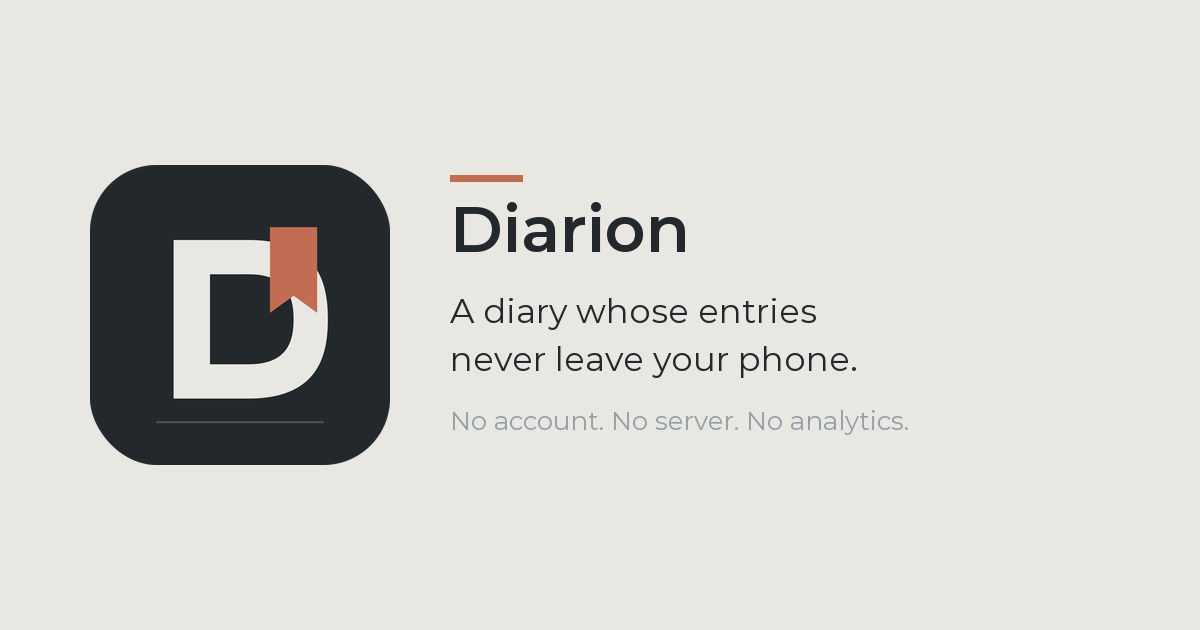
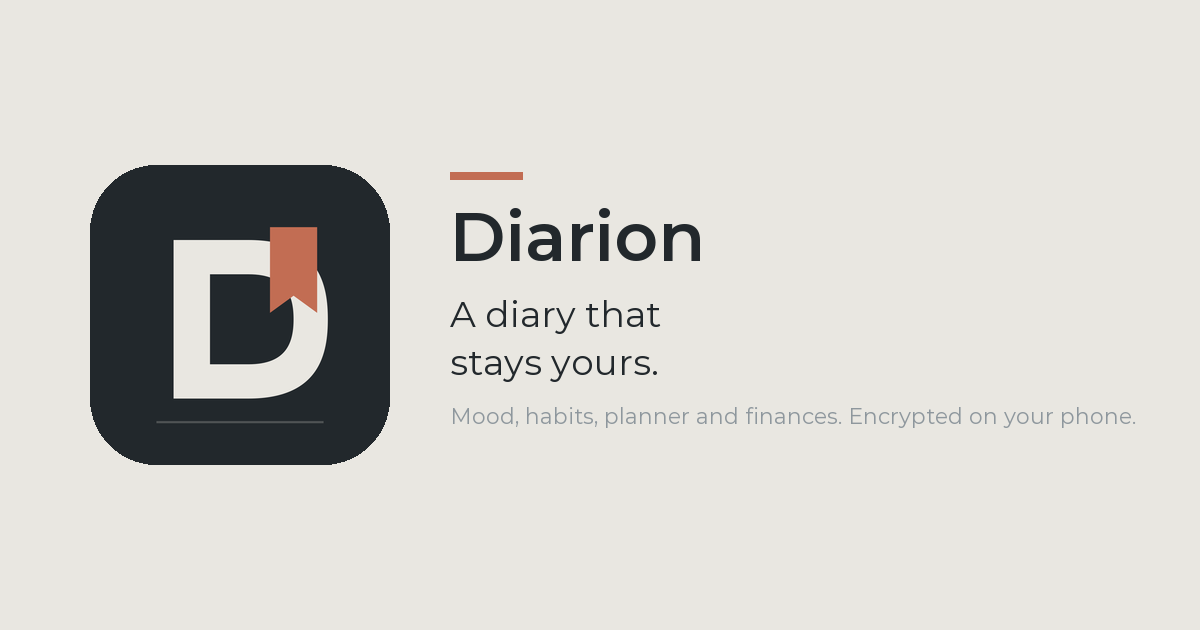
docs(store): «без сервера» знято з сайту, README і лістингу; скріншоти 1.3 обома мовами
Рішення власника 2026-11-13: сервер згодом буде, тому маркетинг більше не обіцяє «без сервера»,
«записи не покидають телефон» і «без хмари». Продаємо щоденник, який «лишається у вас»:
зашифрована база, замок, копія з паролем, експорт. Сайт (uk, en): заголовок, мета, OG-картинки,
герой, три плитки, список приватності, виноска про мережу, футер. README — перший абзац.
store/app-store-listing.md: промо-текст і опис тепер ті, що стоять у App Store Connect для 1.3,
таблиця скріншотів — вісім нових кадрів (емулятор + compose.py), примітка про рішення.
Політика приватності не змінена: вона описує поточну поведінку.

diff --git a/site/index.html b/site/index.html
@@ -3,8 +3,8 @@
 <head>
 <meta charset="utf-8">
 <meta name="viewport" content="width=device-width, initial-scale=1">
-<title>Diarion — щоденник, записи якого не покидають телефон</title>
-<meta name="description" content="Diarion — застосунок для щоденних записів: текст, настрій, звички, планер, нотатки й фінанси. Без акаунта, без сервера, без аналітики. Усе лишається на вашому телефоні.">
+<title>Diarion — приватний щоденник і трекери на кожен день</title>
+<meta name="description" content="Diarion — застосунок для щоденних записів: текст, настрій, звички, планер, нотатки й фінанси. Зашифрована база на вашому телефоні, без аналітики й реклами.">
 <meta name="color-scheme" content="light dark">
 <meta name="theme-color" content="#E9E7E1" media="(prefers-color-scheme: light)">
 <meta name="theme-color" content="#22282C" media="(prefers-color-scheme: dark)">
@@ -18,8 +18,8 @@
 <link rel="stylesheet" href="/styles.css">
 <meta property="og:type" content="website">
 <meta property="og:site_name" content="Diarion">
-<meta property="og:title" content="Diarion — щоденник без хмари">
-<meta property="og:description" content="Записи лишаються у телефоні. Без акаунта, без сервера, без аналітики.">
+<meta property="og:title" content="Diarion — щоденник, який лишається у вас">
+<meta property="og:description" content="Записи, настрій, звички й фінанси в одному застосунку. Зашифровано на вашому телефоні, без аналітики й реклами.">
 <meta property="og:url" content="https://diarion.org/">
 <meta property="og:image" content="https://diarion.org/og.png">
 <meta property="og:image:width" content="1200">
@@ -52,8 +52,8 @@
     <div class="wrap">
       <div>
         <span class="eyebrow">Для iPhone · уже в App Store. Android — пізніше</span>
-        <h1>Щоденник, записи якого не&nbsp;покидають телефон.</h1>
-        <p class="lead">Diarion — застосунок для щоденних записів: текст, настрій, звички, планер, нотатки й фінанси. Без акаунта, без синхронізації, без аналітики: усе, що ви напишете, лежить у базі на самому телефоні.</p>
+        <h1>Щоденник, який лишається у&nbsp;вас.</h1>
+        <p class="lead">Diarion — застосунок для щоденних записів: текст, настрій, звички, планер, нотатки й фінанси. Без реєстрації, без аналітики, без реклами: усе, що ви напишете, лежить у зашифрованій базі на вашому телефоні.</p>
         <div class="cta">
           <a class="store" href="https://apps.apple.com/app/id6814251806"><small>Завантажити в</small>App Store</a>
           <span class="store" aria-disabled="true"><small>Незабаром</small>Google Play</span>
@@ -90,12 +90,12 @@
   <section class="strip" aria-label="Три факти">
     <div class="wrap">
       <div class="tile">
-        <h3>Немає акаунта</h3>
-        <p>Нема чого зламувати й нема куди «відновлювати доступ». Ви просто відкриваєте застосунок і пишете.</p>
+        <h3>Без реєстрації</h3>
+        <p>Відкрили — і пишете. Жодних форм, паролів від сайту і «відновити доступ».</p>
       </div>
       <div class="tile">
-        <h3>Немає сервера</h3>
-        <p>Записи нікуди не надсилаються, бо надсилати їх немає куди. У Diarion немає власних серверів.</p>
+        <h3>Зашифровано</h3>
+        <p>База на телефоні зашифрована. Ключ створюється на вашому пристрої й зберігається в системному сховищі ключів.</p>
       </div>
       <div class="tile">
         <h3>Немає аналітики</h3>
@@ -185,13 +185,13 @@
           </li>
           <li>
             <svg viewBox="0 0 24 24" fill="none" stroke="currentColor" stroke-width="2" stroke-linecap="round" stroke-linejoin="round" aria-hidden="true"><circle cx="12" cy="12" r="10"/><path d="m8 12.5 2.8 2.8L16.5 9.5"/></svg>
-            <div><strong>Немає акаунта, сервера, аналітики, реклами й трекерів.</strong><span>Немає й відстеження між застосунками — відстежувати нічого.</span></div>
+            <div><strong>Немає аналітики, реклами й трекерів.</strong><span>Немає й відстеження між застосунками — відстежувати нічого.</span></div>
           </li>
         </ul>
         <div>
           <div class="callout">
-            <h3>З мережі не йде нічого</h3>
-            <p>Застосунок сам не робить жодного мережевого запиту: ні телеметрії, ні перевірки оновлень, ні реклами. Єдине звернення до мережі — оформлення й перевірка підписки, і його виконує сама iOS через App Store. За вашим бажанням зашифрована копія щоденника може зберігатись у вашому власному iCloud, щоб повернутись після перевстановлення, — це вимкнено, доки ви не погодитесь.</p>
+            <h3>Що йде в мережу</h3>
+            <p>Записи застосунок нікуди не надсилає; телеметрії, реклами й перевірки оновлень у ньому немає. Єдине звернення до мережі — оформлення й перевірка підписки, і його виконує сама iOS через App Store. За вашим бажанням зашифрована копія щоденника може зберігатись у вашому власному iCloud, щоб повернутись після перевстановлення, — це вимкнено, доки ви не погодитесь.</p>
           </div>
           <div class="callout">
             <h3>Що коштує</h3>
@@ -222,7 +222,7 @@
 
 <footer class="site-footer">
   <div class="wrap">
-    <div>© 2026 Diarion · Записи лишаються у телефоні.</div>
+    <div>© 2026 Diarion · Щоденник, який лишається у вас.</div>
     <nav aria-label="Службові посилання">
       <a href="/privacy">Політика приватності</a>
       <a href="/support">Підтримка</a>

diff --git a/site/en/index.html b/site/en/index.html
@@ -3,8 +3,8 @@
 <head>
 <meta charset="utf-8">
 <meta name="viewport" content="width=device-width, initial-scale=1">
-<title>Diarion — a diary whose entries never leave your phone</title>
-<meta name="description" content="Diarion is an app for daily entries: text, mood, habits, planner, notes and finances. No account, no server, no analytics. Everything stays on your phone.">
+<title>Diarion — a private diary and trackers for every day</title>
+<meta name="description" content="Diarion is an app for daily entries: text, mood, habits, planner, notes and finances. An encrypted database on your phone, no analytics, no ads.">
 <meta name="color-scheme" content="light dark">
 <meta name="theme-color" content="#E9E7E1" media="(prefers-color-scheme: light)">
 <meta name="theme-color" content="#22282C" media="(prefers-color-scheme: dark)">
@@ -18,8 +18,8 @@
 <link rel="stylesheet" href="/styles.css">
 <meta property="og:type" content="website">
 <meta property="og:site_name" content="Diarion">
-<meta property="og:title" content="Diarion — Diary Without Cloud">
-<meta property="og:description" content="Nothing leaves your phone. No account, no server, no analytics.">
+<meta property="og:title" content="Diarion — A Diary That Stays Yours">
+<meta property="og:description" content="Entries, mood, habits and finances in one app. Encrypted on your phone, no analytics, no ads.">
 <meta property="og:url" content="https://diarion.org/en/">
 <meta property="og:image" content="https://diarion.org/og-en.png">
 <meta property="og:image:width" content="1200">
@@ -52,8 +52,8 @@
     <div class="wrap">
       <div>
         <span class="eyebrow">For iPhone · on the App Store now. Android later</span>
-        <h1>A diary whose entries never leave your&nbsp;phone.</h1>
-        <p class="lead">Diarion is an app for daily entries: text, mood, habits, planner, notes and finances. No account, no sync, no analytics: everything you write sits in a database on the phone itself.</p>
+        <h1>A diary that stays&nbsp;yours.</h1>
+        <p class="lead">Diarion is an app for daily entries: text, mood, habits, planner, notes and finances. No sign-up, no analytics, no ads: everything you write sits in an encrypted database on your phone.</p>
         <div class="cta">
           <a class="store" href="https://apps.apple.com/app/id6814251806"><small>Download on the</small>App Store</a>
           <span class="store" aria-disabled="true"><small>Coming soon</small>Google Play</span>
@@ -90,12 +90,12 @@
   <section class="strip" aria-label="Three facts">
     <div class="wrap">
       <div class="tile">
-        <h3>No account</h3>
-        <p>Nothing to breach and no access to “recover”. You open the app and write.</p>
+        <h3>No sign-up</h3>
+        <p>Open the app and write. No forms, no website password, nothing to “recover”.</p>
       </div>
       <div class="tile">
-        <h3>No server</h3>
-        <p>Entries are not sent anywhere, because there is nowhere to send them. Diarion has no servers of its own.</p>
+        <h3>Encrypted</h3>
+        <p>The database on the phone is encrypted. The key is generated on your device and held in the system keystore.</p>
       </div>
       <div class="tile">
         <h3>No analytics</h3>
@@ -185,13 +185,13 @@
           </li>
           <li>
             <svg viewBox="0 0 24 24" fill="none" stroke="currentColor" stroke-width="2" stroke-linecap="round" stroke-linejoin="round" aria-hidden="true"><circle cx="12" cy="12" r="10"/><path d="m8 12.5 2.8 2.8L16.5 9.5"/></svg>
-            <div><strong>No account, server, analytics, ads or trackers.</strong><span>No cross-app tracking either. There is nothing to track.</span></div>
+            <div><strong>No analytics, ads or trackers.</strong><span>No cross-app tracking either. There is nothing to track.</span></div>
           </li>
         </ul>
         <div>
           <div class="callout">
-            <h3>Nothing goes over the network</h3>
-            <p>The app itself makes no network requests: no telemetry, no update checks, no ads. The one connection is buying and checking the subscription, and iOS makes it through the App Store. If you choose, an encrypted copy of your diary can be kept in your own iCloud so it comes back after a reinstall; it is off until you agree.</p>
+            <h3>What goes over the network</h3>
+            <p>The app does not send your entries anywhere; it has no telemetry, no ads and no update checks. The one connection is buying and checking the subscription, and iOS makes it through the App Store. If you choose, an encrypted copy of your diary can be kept in your own iCloud so it comes back after a reinstall; it is off until you agree.</p>
           </div>
           <div class="callout">
             <h3>What it costs</h3>
@@ -222,7 +222,7 @@
 
 <footer class="site-footer">
   <div class="wrap">
-    <div>© 2026 Diarion · Nothing leaves your phone.</div>
+    <div>© 2026 Diarion · A diary that stays yours.</div>
     <nav aria-label="Footer links">
       <a href="/en/privacy">Privacy policy</a>
       <a href="/en/support">Support</a>

diff --git a/store/app-store-listing.md b/store/app-store-listing.md
@@ -7,6 +7,11 @@
 [`privacy-policy.md`](privacy-policy.md) — жодного твердження, яке застосунок не виконує. Що
 лишається власнику — в кінці, розділ 6.
 
+> **2026-11-13, рішення власника:** сервер згодом буде, тому формулювання «без сервера», «записи не покидають
+> телефон» і «без хмари» зняті зі скріншотів, промо-тексту, опису, сайту й README. Продаємо щоденник, який
+> «лишається у вас»: зашифрована база, замок, копія з паролем, експорт. Тексти нижче — те, що стоїть у
+> App Store Connect для 1.3; політика приватності описує поточну поведінку й лишається як є.
+
 ---
 
 ## 1. Одна робота, яку продаємо
@@ -51,16 +56,16 @@ Diarion
 нотатки,настрій,звички,планер,трекер,журнал,приватно,шифрування,рефлексія,фінанси,сон,читання,мрії
 ```
 
-**Промо-текст** (151) — правиться без нового рев'ю, тож саме тут живе найсильніше речення.
+**Промо-текст** (150) — правиться без нового рев'ю, тож саме тут живе найсильніше речення.
 ```
-Немає акаунта, немає сервера, немає аналітики. Ви пишете — воно лишається на вашому телефоні. Резервна копія шифрується паролем, який знаєте тільки ви.
+Щоденник, настрій, звички, планер і фінанси в одному застосунку. База зашифрована на вашому телефоні, резервна копія — паролем, який знаєте тільки ви.
 ```
 
 **Опис**
 ```
 Щоденник, який лишається у вас.
 
-Diarion — застосунок для щоденних записів. Без акаунта, без синхронізації, без аналітики: усе, що ви напишете, лежить у базі на самому телефоні.
+Diarion — застосунок для щоденних записів. Без реєстрації, без аналітики, без реклами: усе, що ви напишете, лежить у зашифрованій базі на вашому телефоні.
 
 ЩО ВСЕРЕДИНІ
 
@@ -75,14 +80,14 @@ Diarion — застосунок для щоденних записів. Без 
 
 ПРИВАТНІСТЬ - СИЛЬНА СТОРОНА
 
-• Немає сервера — записи нікуди не надсилаються
+• База зашифрована на диску, ключ створюється на вашому пристрої
 • Замок на вході — Face ID або відбиток
 • Резервна копія шифрується паролем, який знаєте тільки ви
 • Експорт у JSON, CSV і Markdown — ваші записи ваші, і виносяться звідси в один дотик
 
-З МЕРЕЖІ НЕ ЙДЕ НІЧОГО
+ЩО ЙДЕ В МЕРЕЖУ
 
-Застосунок сам не робить жодного мережевого запиту: ні телеметрії, ні перевірки оновлень, ні реклами. Єдине звернення до мережі — оформлення й перевірка підписки, і його виконує сама iOS через App Store.
+Записи застосунок нікуди не надсилає; телеметрії, реклами й перевірки оновлень у ньому немає. Єдине звернення до мережі — оформлення й перевірка підписки, і його виконує сама iOS через App Store.
 
 ПІДПИСКА
 
@@ -114,16 +119,16 @@ Private diary and trackers
 notes,mood,habits,planner,tracker,journal,private,offline,encrypted,reflection,finance,sleep,books
 ```
 
-**Promotional text** (129)
+**Promotional text** (134)
 ```
-No account, no server, no analytics. You write it, it stays on your phone. Backups are encrypted with a passphrase only you know.
+Diary, mood, habits, planner and finances in one app. The database is encrypted on your phone; backups use a passphrase only you know.
 ```
 
 **Description**
 ```
 A diary that stays yours.
 
-Diarion is an app for daily entries. No account, no sync, no analytics: everything you write sits in a database on the phone itself.
+Diarion is an app for daily entries. No sign-up, no analytics, no ads: everything you write sits in an encrypted database on your phone.
 
 WHAT IS INSIDE
 
@@ -138,14 +143,14 @@ WHAT IS INSIDE
 
 PRIVACY IS THE STRONG SIDE
 
-• No server — entries are not sent anywhere
+• The database is encrypted on disk; the key is generated on your device
 • A lock on the way in — Face ID or fingerprint
 • Backups are encrypted with a passphrase only you know
 • Export to JSON, CSV and Markdown — your entries are yours, and they leave in one tap
 
-NOTHING GOES OVER THE NETWORK
+WHAT GOES OVER THE NETWORK
 
-The app makes no network requests of its own: no telemetry, no update checks, no ads. The one connection is buying and checking the subscription, and iOS makes it through the App Store.
+The app does not send your entries anywhere; it has no telemetry, no ads and no update checks. The one connection is buying and checking the subscription, and iOS makes it through the App Store.
 
 SUBSCRIPTION
 
@@ -162,21 +167,24 @@ Three themes, Ukrainian and English, and a daily reminder at a time that suits y
 
 ---
 
-## 3. Скриншоти — 6.9" iPhone (закриває 1.2)
+## 3. Скриншоти — 1.3 (uk та en-US, 6.5" 1284×2778 і 6.7"/6.9" 1320×2868)
 
-Шість кадрів, перший несе весь доказ. Підписи накладаються на кадр і потрібні обома мовами.
+Вісім кадрів, зняті на емуляторі з показовими даними Debug-сідера й «переодягнені» в iPhone скриптом
+`D:\WORK\tmp\store-shots\compose.py` (рамка, статус-бар, заголовок, коралова закладка, один чіп з фактом).
+Завантажені в App Store Connect 2026-11-13 для обох локалей.
 
-| # | Екран | Підпис UA | Caption EN |
-|---|---|---|---|
-| 1 | Щоденний запис, заповнений | Записи не покидають телефон | Your entries never leave the phone |
-| 2 | Дошка (статистика за місяць) | Місяць видно з одного екрана | A month at a glance |
-| 3 | Головна з quick-menu | Один застосунок замість п'яти | One app instead of five |
-| 4 | Планер | Задачі на день і нагадування | The day's tasks, with reminders |
-| 5 | Налаштування → замок і резервна копія | Замок і зашифрована копія | A lock, and an encrypted backup |
-| 6 | Онбординг, крок вибору модулів | Вимкніть те, чим не користуєтесь | Switch off what you do not use |
+| # | Екран | Заголовок UA | Headline EN | Чіп |
+|---|---|---|---|---|
+| 1 | Головна: настрій, сон | Щоденник, який лишається у вас | A diary that stays yours | Настрій по годинах |
+| 2 | Їжа та звички (темна) | Весь день за хвилину | The whole day in a minute | 4 з 5 звичок сьогодні |
+| 3 | Планувальник, годинна сітка | План на день, не на все життя | A plan for the day, not for life | Година за годиною |
+| 4 | Дошка статистики | Місяць на одному екрані | A month on one screen | Тиждень, 2 тижні, місяць |
+| 5 | Фінанси | Куди йдуть гроші | Where the money goes | Будь-яка валюта |
+| 6 | Трекер читання (рожева) | Полиця прочитаного | Your reading shelf | Рожева тема |
+| 7 | Список бажань | Мрії, які не губляться | Dreams that do not get lost | 2 з 6 збулися |
+| 8 | Трекер звички | Ціль по одному дню за раз | One day at a time | 33 дні відмічено |
 
-Кадр 1 — не найкрасивіший екран, а найпереконливіший: у пошуку видно перші **три**, і людина
-приймає рішення на першому. iPad не потрібен — застосунок оголошений iPhone-only (`UIDeviceFamily`).
+Перший кадр несе головне повідомлення. iPad не потрібен — застосунок оголошений iPhone-only (`UIDeviceFamily`).
 
 ---
 

diff --git a/README.md b/README.md
@@ -1,8 +1,8 @@
 # Diarion
 
 A private diary and life tracker for iOS and Android: daily entries, mood, sleep, habits,
-planner, notes, finances, reading and an optional cycle calendar. No account, no server, no
-analytics — everything stays in an encrypted database on the phone.
+planner, notes, finances, reading and an optional cycle calendar. No sign-up, no analytics —
+everything stays in an encrypted database on the phone.
 
 - App Store: <https://apps.apple.com/ua/app/diarion/id6814251806>
 - Website and privacy policy: <https://diarion.org>
